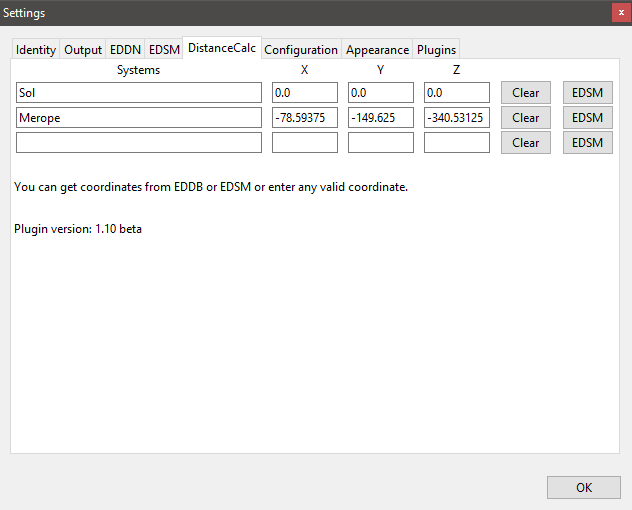
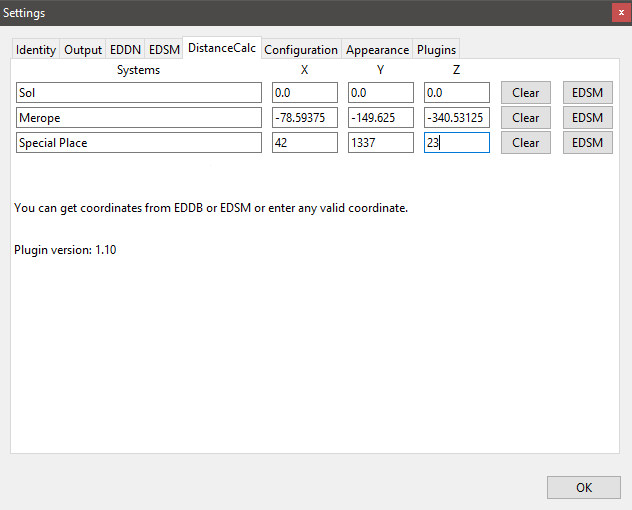
Remove beta from version

diff --git a/load.py b/load.py
@@ -27,7 +27,7 @@ from functools import partial
 from config import config
 import myNotebook as nb
 
-VERSION = "1.10 beta"
+VERSION = "1.10"
 
 this = sys.modules[__name__]	# For holding module globals
 
